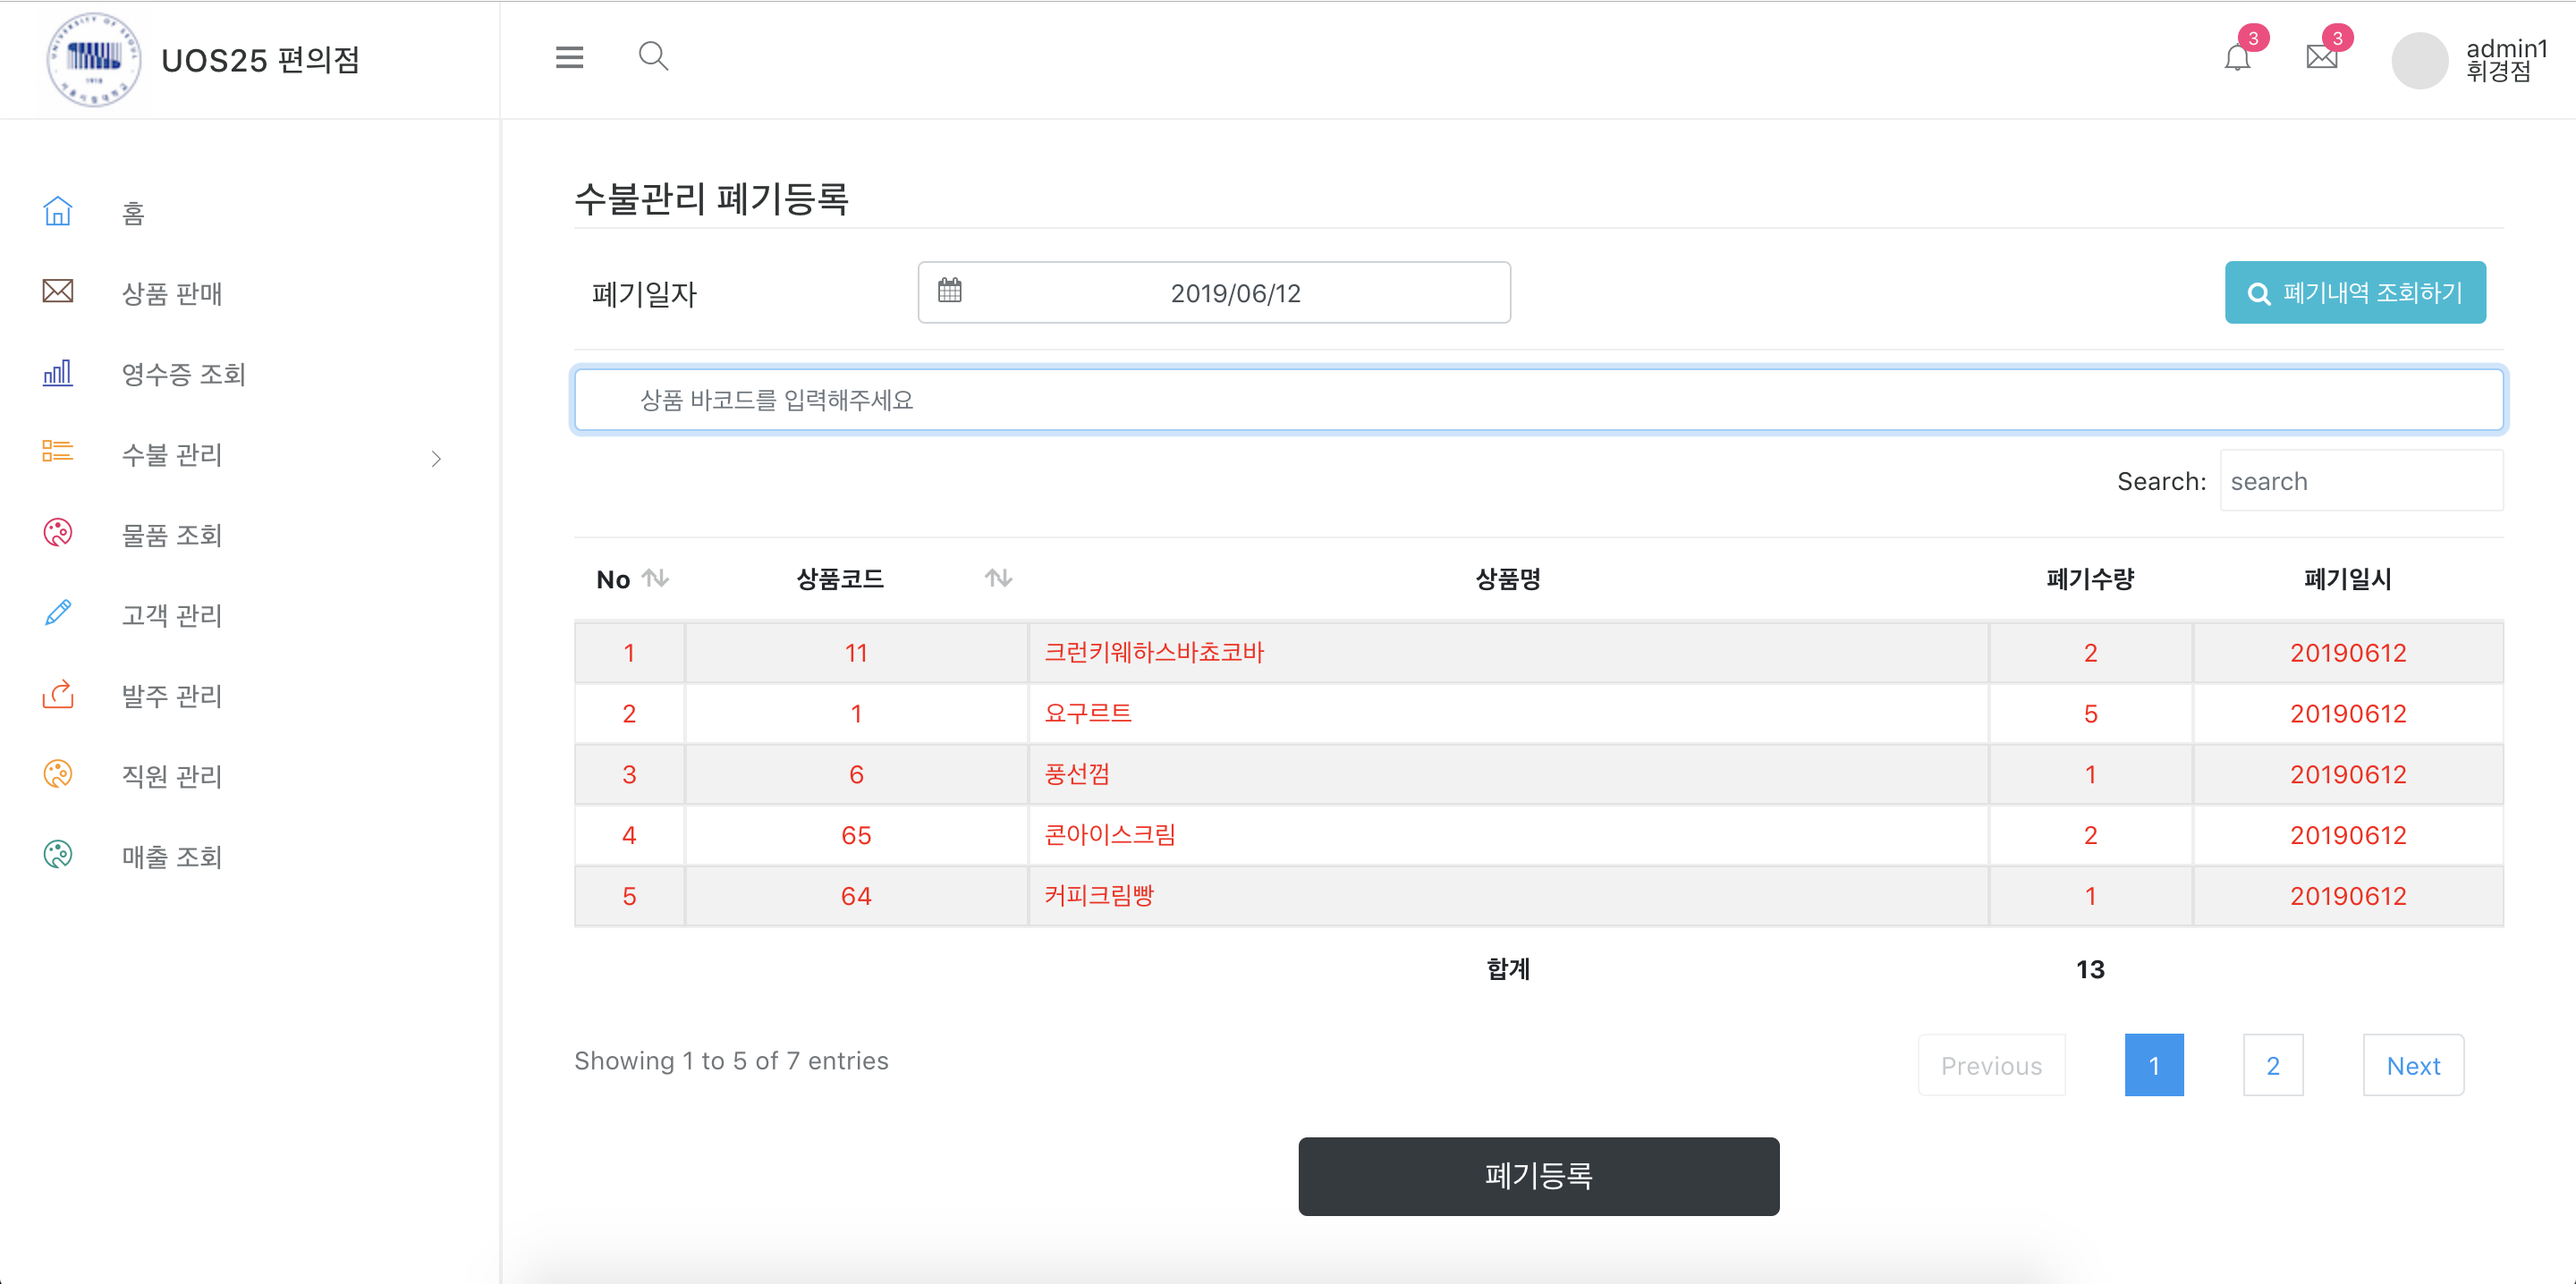
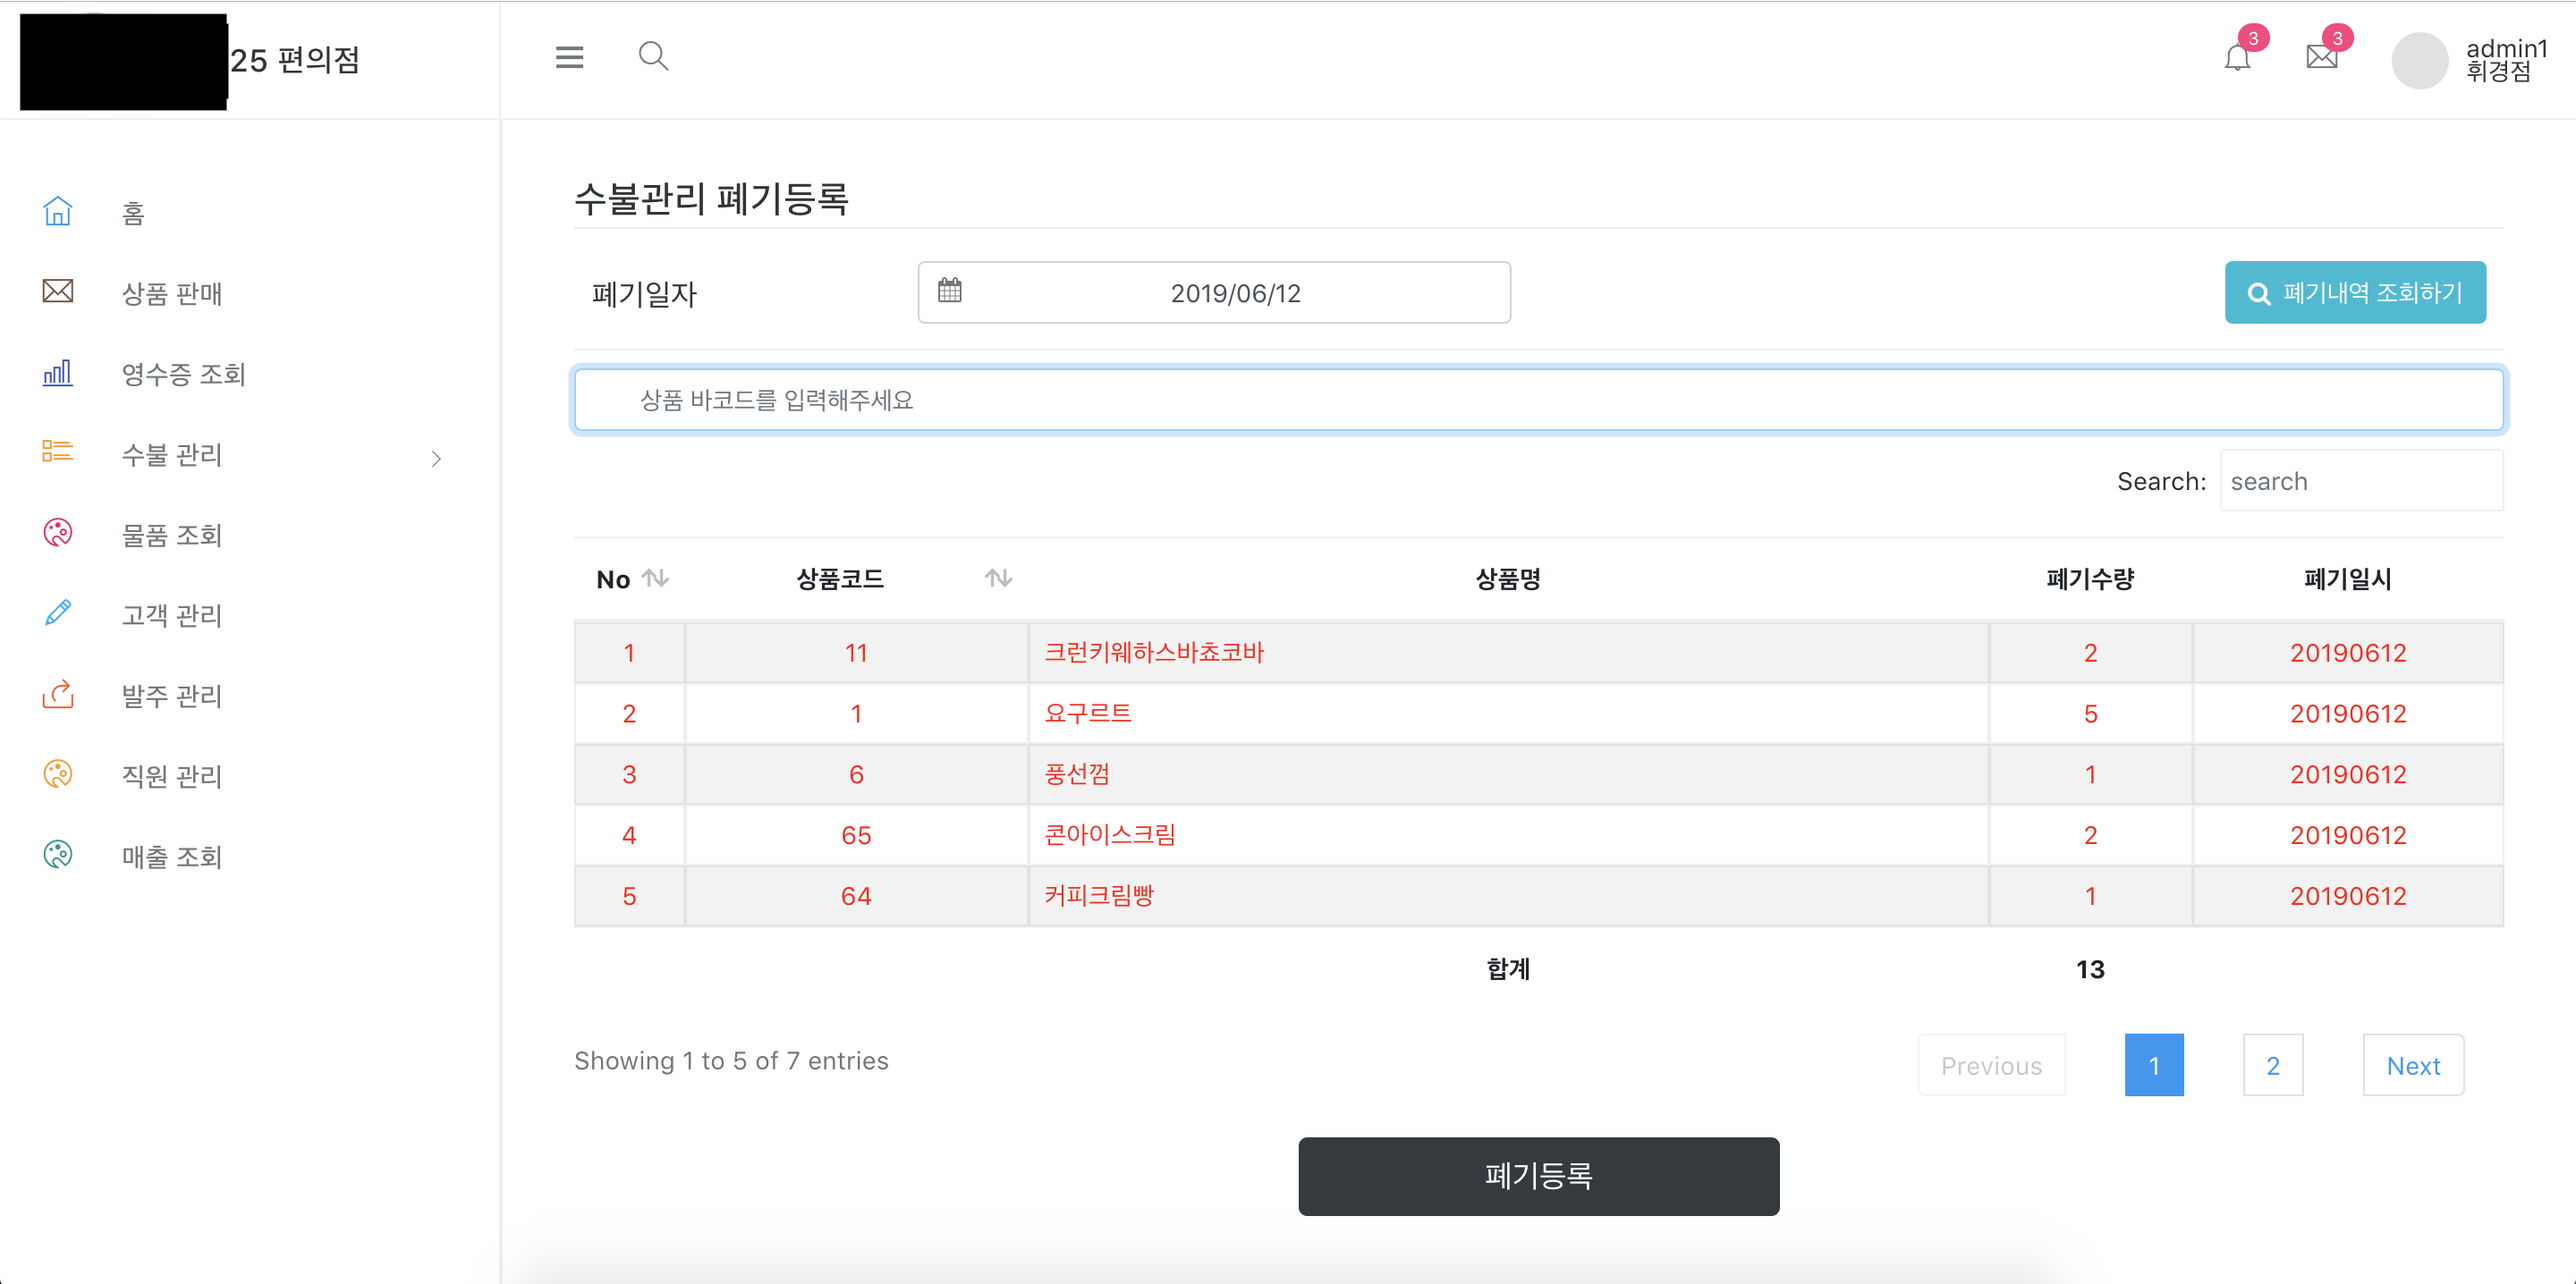
학교 이름 및 로고 모자이크

Changed region(s): [[0.0, 0.0, 0.0938, 0.0919]]

diff --git a/README.md b/README.md
@@ -1,17 +1,17 @@
-# UOS25 편의점 POS 시스템 
+# XXX25 편의점 POS 시스템 
 
 ### Entity Relationship Diagram (ERD)
-<img src="https://raw.githubusercontent.com/umbum/convenience-store-POS-system/master/docs/ERD.bmp"></img>
+<img src="https://raw.githubusercontent.com/umbum/convenience-store-POS-system/delete_univ/docs/ERD.bmp"></img>
 </br></br>
 
 ### UI
-<img src="https://raw.githubusercontent.com/umbum/convenience-store-POS-system/master/docs/UI/sales1.png"></img>
-<img src="https://raw.githubusercontent.com/umbum/convenience-store-POS-system/master/docs/UI/sales2.png" width="49%"></img>
-<img src="https://raw.githubusercontent.com/umbum/convenience-store-POS-system/master/docs/UI/receipt.png" width="49%"></img>
-<img src="https://raw.githubusercontent.com/umbum/convenience-store-POS-system/master/docs/UI/instock.png" width="49%"></img>
-<img src="https://raw.githubusercontent.com/umbum/convenience-store-POS-system/master/docs/UI/discard.png" width="49%"></img>
-<img src="https://raw.githubusercontent.com/umbum/convenience-store-POS-system/master/docs/UI/order.png" width="49%"></img>
-<img src="https://raw.githubusercontent.com/umbum/convenience-store-POS-system/master/docs/UI/login.png" width="49%"></img>
+<img src="https://raw.githubusercontent.com/umbum/convenience-store-POS-system/delete_univ/docs/UI/sales1.png"></img>
+<img src="https://raw.githubusercontent.com/umbum/convenience-store-POS-system/delete_univ/docs/UI/sales2.png" width="49%"></img>
+<img src="https://raw.githubusercontent.com/umbum/convenience-store-POS-system/delete_univ/docs/UI/receipt.png" width="49%"></img>
+<img src="https://raw.githubusercontent.com/umbum/convenience-store-POS-system/delete_univ/docs/UI/instock.png" width="49%"></img>
+<img src="https://raw.githubusercontent.com/umbum/convenience-store-POS-system/delete_univ/docs/UI/discard.png" width="49%"></img>
+<img src="https://raw.githubusercontent.com/umbum/convenience-store-POS-system/delete_univ/docs/UI/order.png" width="49%"></img>
+<img src="https://raw.githubusercontent.com/umbum/convenience-store-POS-system/delete_univ/docs/UI/login.png" width="49%"></img>
 </br></br>
 
 ### 기술셋
